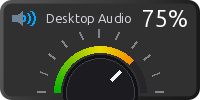
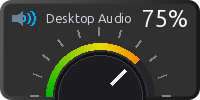
Refine knob geometry to match 90px width and 44px height specification from rect1.png

diff --git a/actions/VolumeControl/VolumeControl.py b/actions/VolumeControl/VolumeControl.py
@@ -392,25 +392,35 @@ class VolumeControl(ActionBase):
                 title_w = len(title_text) * 7
             draw.text((center_x - title_w // 2, 18 - 7), title_text, font=font_title, fill=(220, 222, 230, 255))
         
-        # 3. Dial Geometry (Restored to manual knob core layout)
-        cx, cy = 100, 92
-        r_tick_start, r_tick_end = 55, 63
-        r_arc = 46
-        r_core_outer = 37
-        r_core_inner = 34
-        r_pt_start, r_pt_end = 16, 29
+        # 3. Dial Geometry (Interpreted to match rect1.png: Width = 90px, Height = 44px)
+        cx, cy = 100, 96
+        
+        # Outer Knob Core dimensions (90px wide, 44px high)
+        rx_outer, ry_outer = 45, 44
+        # Inner Knob Core dimensions (Thickness = 3px)
+        rx_inner, ry_inner = 42, 41
+        
+        # Gauge Arc dimensions (9px outside the knob core)
+        rx_arc, ry_arc = 54, 53
+        
+        # Ticks start and end
+        rx_tick_start, ry_tick_start = 62, 61
+        rx_tick_end, ry_tick_end = 70, 69
+        
+        # Pointer dimensions
+        r_pt_start, r_pt_end = 16, 36
         
         # Draw Ticks (arranged semi-circularly from 180 to 360 degrees)
         for tick_angle in range(180, 361, 18):
             rad = math.radians(tick_angle)
-            x1 = cx + r_tick_start * math.cos(rad)
-            y1 = cy + r_tick_start * math.sin(rad)
-            x2 = cx + r_tick_end * math.cos(rad)
-            y2 = cy + r_tick_end * math.sin(rad)
+            x1 = cx + rx_tick_start * math.cos(rad)
+            y1 = cy + ry_tick_start * math.sin(rad)
+            x2 = cx + rx_tick_end * math.cos(rad)
+            y2 = cy + ry_tick_end * math.sin(rad)
             draw.line([(x1, y1), (x2, y2)], fill=(130, 132, 140, 255), width=2)
             
         # Draw Gauge Track (inactive - dark background arc)
-        bbox = [(cx - r_arc, cy - r_arc), (cx + r_arc, cy + r_arc)]
+        bbox = [(cx - rx_arc, cy - ry_arc), (cx + rx_arc, cy + ry_arc)]
         draw.arc(bbox, start=180, end=360, fill=(38, 38, 42, 255), width=7)
         
         # Draw Active Gauge Segment
@@ -420,7 +430,6 @@ class VolumeControl(ActionBase):
             # Segment-by-segment gradient drawing
             for angle in range(180, int(end_angle)):
                 pct = (angle - 180) / 180.0
-                # Green (0, 180, 0) to Yellow (235, 220, 0) to Orange/Red (255, 60, 0)
                 if pct < 0.5:
                     t = pct / 0.5
                     r_col = int(0 + 235 * t)
@@ -435,9 +444,9 @@ class VolumeControl(ActionBase):
                 draw.arc(bbox, start=angle, end=angle+2, fill=(r_col, g_col, b_col, 255), width=7)
                 
         # 4. Draw Inner Knob Core (Outer shadow/border for 3D bevel look)
-        draw.ellipse([(cx - r_core_outer, cy - r_core_outer), (cx + r_core_outer, cy + r_core_outer)], fill=(18, 18, 20, 255))
+        draw.ellipse([(cx - rx_outer, cy - ry_outer), (cx + rx_outer, cy + ry_outer)], fill=(18, 18, 20, 255))
         # Inner circle of the core
-        draw.ellipse([(cx - r_core_inner, cy - r_core_inner), (cx + r_core_inner, cy + r_core_inner)], fill=(28, 28, 32, 255), outline=(60, 62, 72, 255), width=1)
+        draw.ellipse([(cx - rx_inner, cy - ry_inner), (cx + rx_inner, cy + ry_inner)], fill=(28, 28, 32, 255), outline=(60, 62, 72, 255), width=1)
         
         # 5. Draw Pointer line on top of the knob
         pointer_angle = end_angle